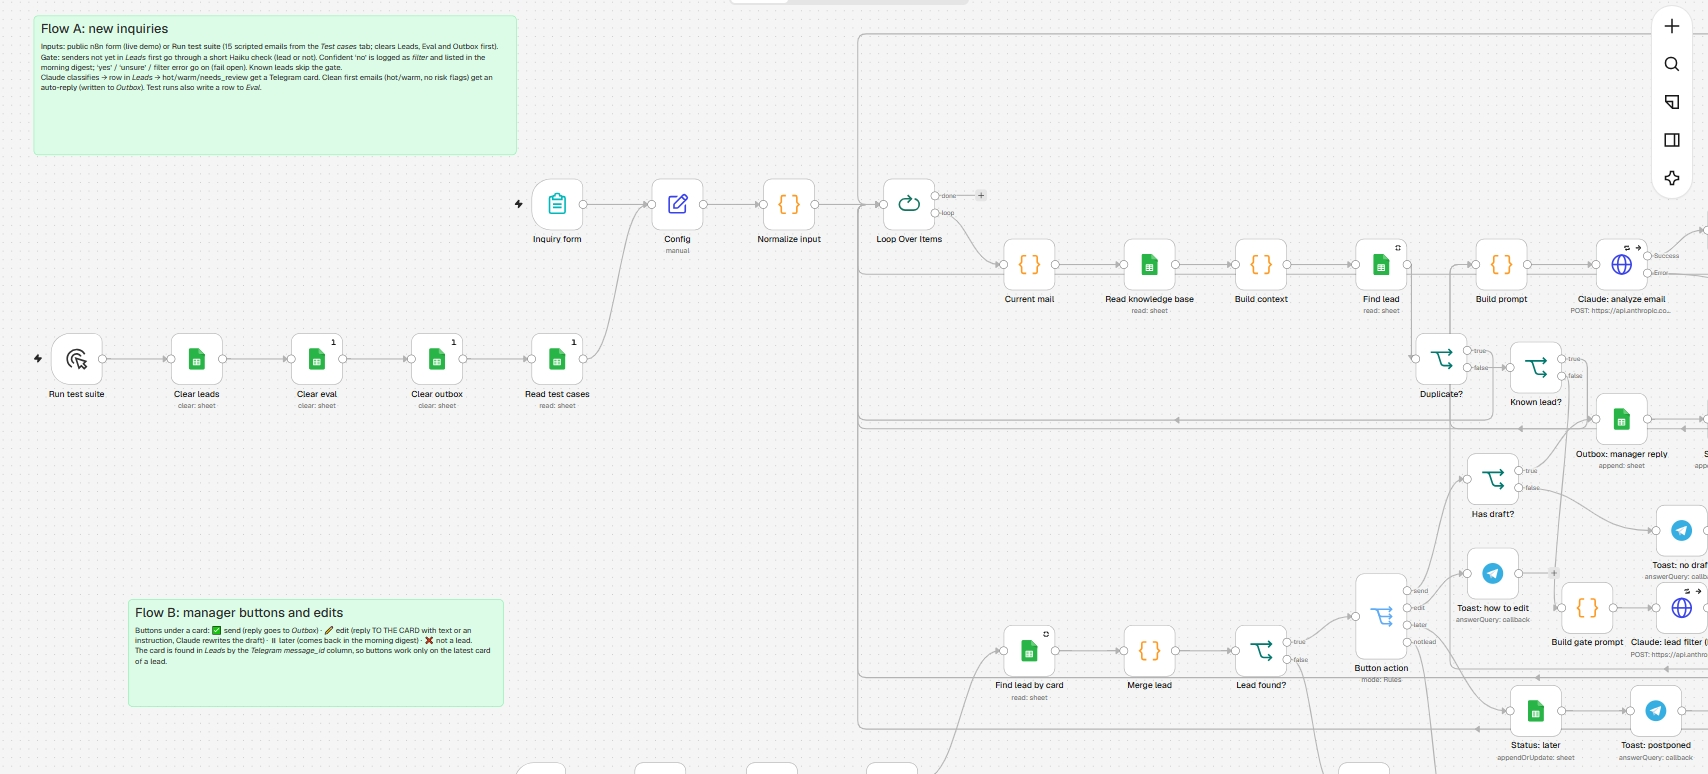
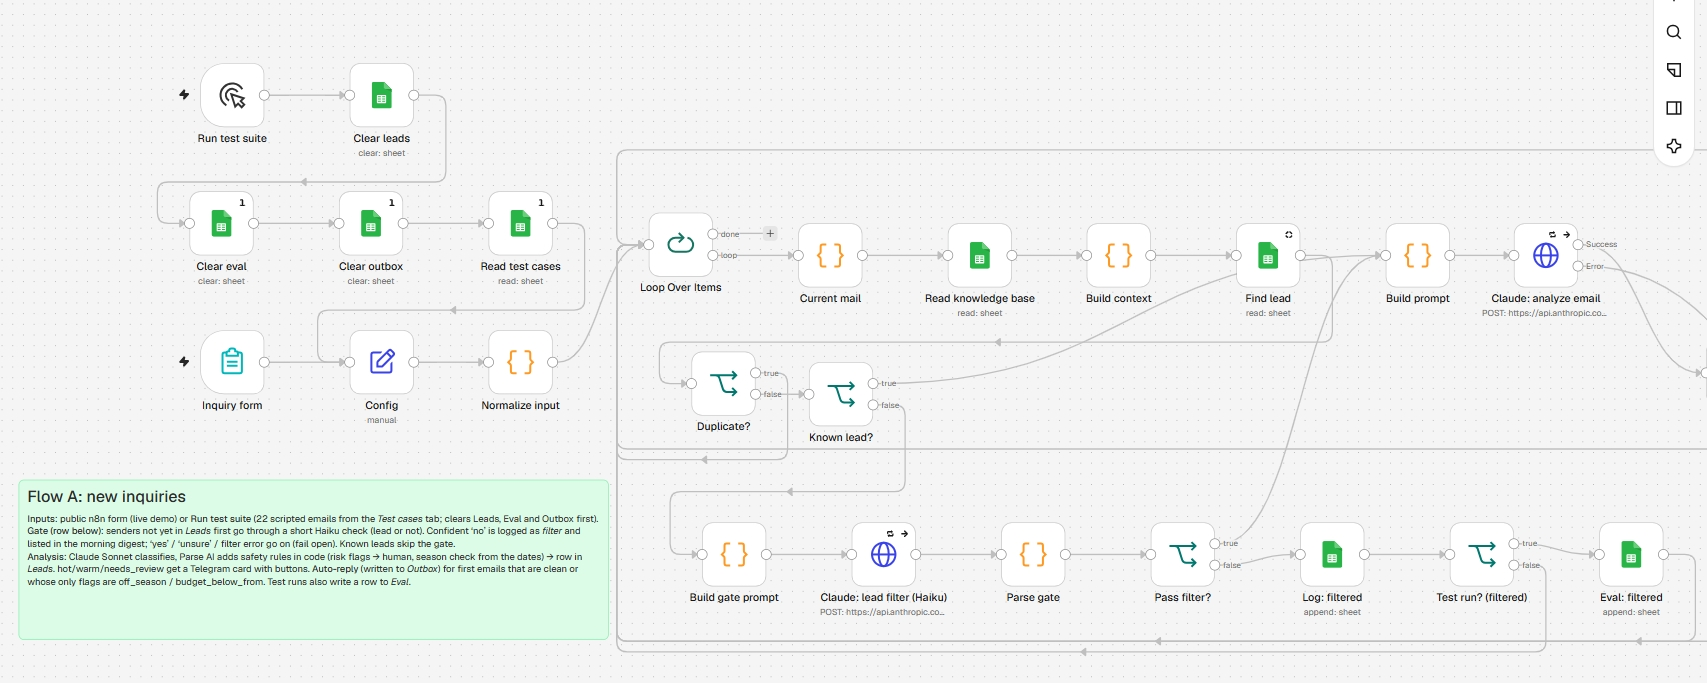
Update n8n canvas screenshots
Claude-Session: https://claude.ai/code/session_01PsZbZL8xftdfz3WyQbHyvY

diff --git a/README.md b/README.md
@@ -77,7 +77,7 @@ Auto-replies: dates outside the season ("the manager will contact you") and an I
 
 ![Form](docs/screenshots/07-inquiry-form.jpg)
 
-**n8n**: intake flow (form or test suite → filter → analysis) and the manager-buttons flow:
+**n8n**: intake flow (test suite or form → duplicate and known-lead checks → Haiku filter row → Sonnet analysis) and the manager-buttons flow (send, edit, later, not a lead):
 
 ![Flow A](docs/screenshots/08-n8n-flow-a-intake.jpg)
 ![Flow B](docs/screenshots/09-n8n-flow-b-buttons.jpg)
